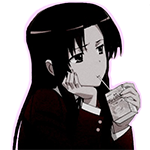
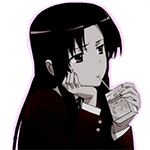
uwu

Changed region(s): [[0.16, 0.0267, 0.3467, 0.56]]

diff --git a/article.html b/article.html
@@ -15,7 +15,7 @@
     <div class="container">
         <div class="row justify-content-md-center" >
             <div class="col col-lg-2" style="min-height: 52px; ">
-                <img src="kabocha icon 150x150 upd.png" alt="Girl in a jacket" width="150" height="150" style="position: absolute; margin-top: 9px;  z-index: -1;">
+                <img src="kabocha icon 150x150.png" alt="Girl in a jacket" width="150" height="150" style="position: absolute; margin-top: 9px;  z-index: -1;">
             </div>
             <div class="col-md-auto" style="display: table; margin: auto;">
 

diff --git a/book.html b/book.html
@@ -14,7 +14,7 @@
     <div class="container">
         <div class="row justify-content-md-center">
             <div class="col col-lg-2" style="min-height: 52px; ">
-                <img src="kabocha icon 150x150 upd.png" alt="Girl in a jacket" width="150" height="150" style="position: absolute; margin-top: 9px;  z-index: -1;">
+                <img src="kabocha icon 150x150.png" alt="Girl in a jacket" width="150" height="150" style="position: absolute; margin-top: 9px;  z-index: -1;">
             </div>
             <div class="col-md-auto" style="display: table; margin: auto;">
 

diff --git a/conference.html b/conference.html
@@ -15,7 +15,7 @@
     <div class="container">
         <div class="row justify-content-md-center">
             <div class="col col-lg-2" style="min-height: 52px; ">
-                <img src="kabocha icon 150x150 upd.png" alt="Girl in a jacket" width="150" height="150" style="position: absolute; margin-top: 9px;  z-index: -1;">
+                <img src="kabocha icon 150x150.png" alt="Girl in a jacket" width="150" height="150" style="position: absolute; margin-top: 9px;  z-index: -1;">
             </div>
             <div class="col-md-auto" style="display: table; margin: auto;">
 

diff --git a/incollection.html b/incollection.html
@@ -15,7 +15,7 @@
     <div class="container">
         <div class="row justify-content-md-center">
             <div class="col col-lg-2" style="min-height: 52px; ">
-                <img src="kabocha icon 150x150 upd.png" alt="Girl in a jacket" width="150" height="150" style="position: absolute; margin-top: 9px;  z-index: -1;">
+                <img src="kabocha icon 150x150.png" alt="Girl in a jacket" width="150" height="150" style="position: absolute; margin-top: 9px;  z-index: -1;">
             </div>
             <div class="col-md-auto" style="display: table; margin: auto;">
 

diff --git a/online.html b/online.html
@@ -24,7 +24,7 @@
     <div class="container">
         <div class="row justify-content-md-center">
             <div class="col col-lg-2" style="min-height: 52px; ">
-                <img src="kabocha icon 150x150 upd.png" alt="Girl in a jacket" width="150" height="150" style="position: absolute; margin-top: 9px;  z-index: -1;">
+                <img src="kabocha icon 150x150.png" alt="Girl in a jacket" width="150" height="150" style="position: absolute; margin-top: 9px;  z-index: -1;">
             </div>
             <div class="col-md-auto" style="display: table; margin: auto;">
 
